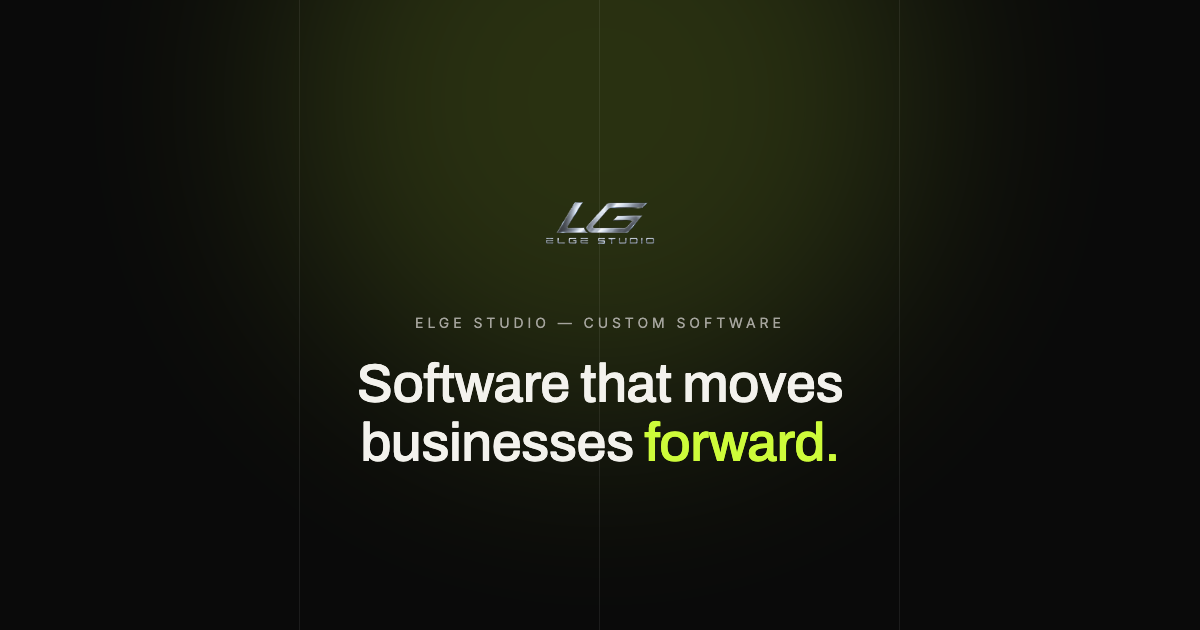
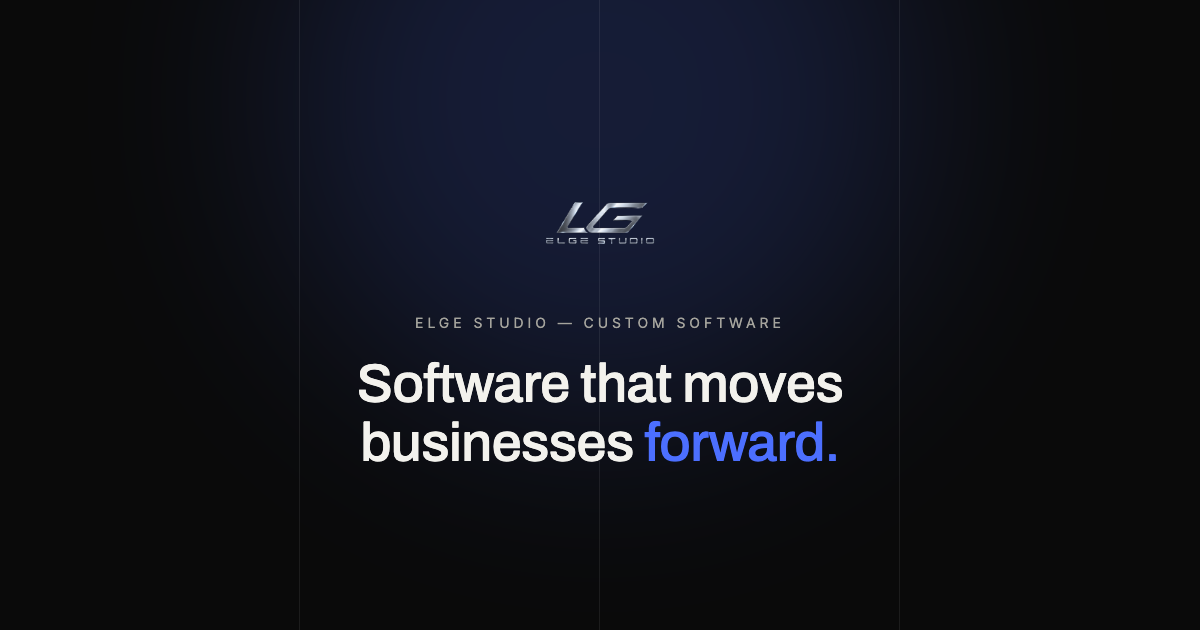
Switch accent color from lime to royal blue
Pure CSS-variable change: every component already referenced
var(--accent)/var(--accent-fg) rather than hardcoded hex, so this only
touches index.css.

- --accent: dark #4c6fff, light #2a44d6 (deep enough for AA contrast
  on the cream background)
- --accent-fg flips to a fixed near-white in both themes instead of
  the old theme-dependent black/cream split, since royal blue has much
  lower luminance than lime, and needs light text on top when used as
  a fill (Send button, hero CTA hover, text selection) rather than
  dark text
- Removed the unused --color-lime-* theme scale (never consumed as a
  Tailwind utility class)
- Regenerated the OG share image, which had the lime color baked into
  a raster PNG

Changed region(s): [[0.2775, 0.0, 0.7092, 0.573], [0.5242, 0.6635, 0.7092, 0.754]]

diff --git a/src/index.css b/src/index.css
@@ -5,13 +5,6 @@
   --font-display: "Archivo", "Inter", ui-sans-serif, sans-serif;
   --font-sans: "Inter", ui-sans-serif, sans-serif;
 
-  --color-lime-50: #f7ffe0;
-  --color-lime-200: #e4ff9e;
-  --color-lime-300: #d7fb64;
-  --color-lime-400: #cdfb3a;
-  --color-lime-500: #b5e021;
-  --color-lime-600: #8fb519;
-
   --breakpoint-xs: 30rem;
 }
 
@@ -26,9 +19,9 @@
   --muted-2: #706f68;
   --line: rgba(243, 242, 237, 0.1);
   --line-strong: rgba(243, 242, 237, 0.18);
-  --accent: #cdfb3a;
-  --accent-fg: #0a0a0a;
-  --accent-soft: rgba(205, 251, 58, 0.1);
+  --accent: #4c6fff;
+  --accent-fg: #f5f4ef;
+  --accent-soft: rgba(76, 111, 255, 0.12);
   --grain-opacity: 0.05;
   --logo-filter: none;
 }
@@ -44,9 +37,9 @@
   --muted-2: #8b8a82;
   --line: rgba(12, 12, 11, 0.1);
   --line-strong: rgba(12, 12, 11, 0.2);
-  --accent: #6f9600;
-  --accent-fg: #f3f2ec;
-  --accent-soft: rgba(111, 150, 0, 0.1);
+  --accent: #2a44d6;
+  --accent-fg: #f5f4ef;
+  --accent-soft: rgba(42, 68, 214, 0.1);
   --grain-opacity: 0.035;
   --logo-filter: invert(1) brightness(0.92) contrast(1.05);
 }
